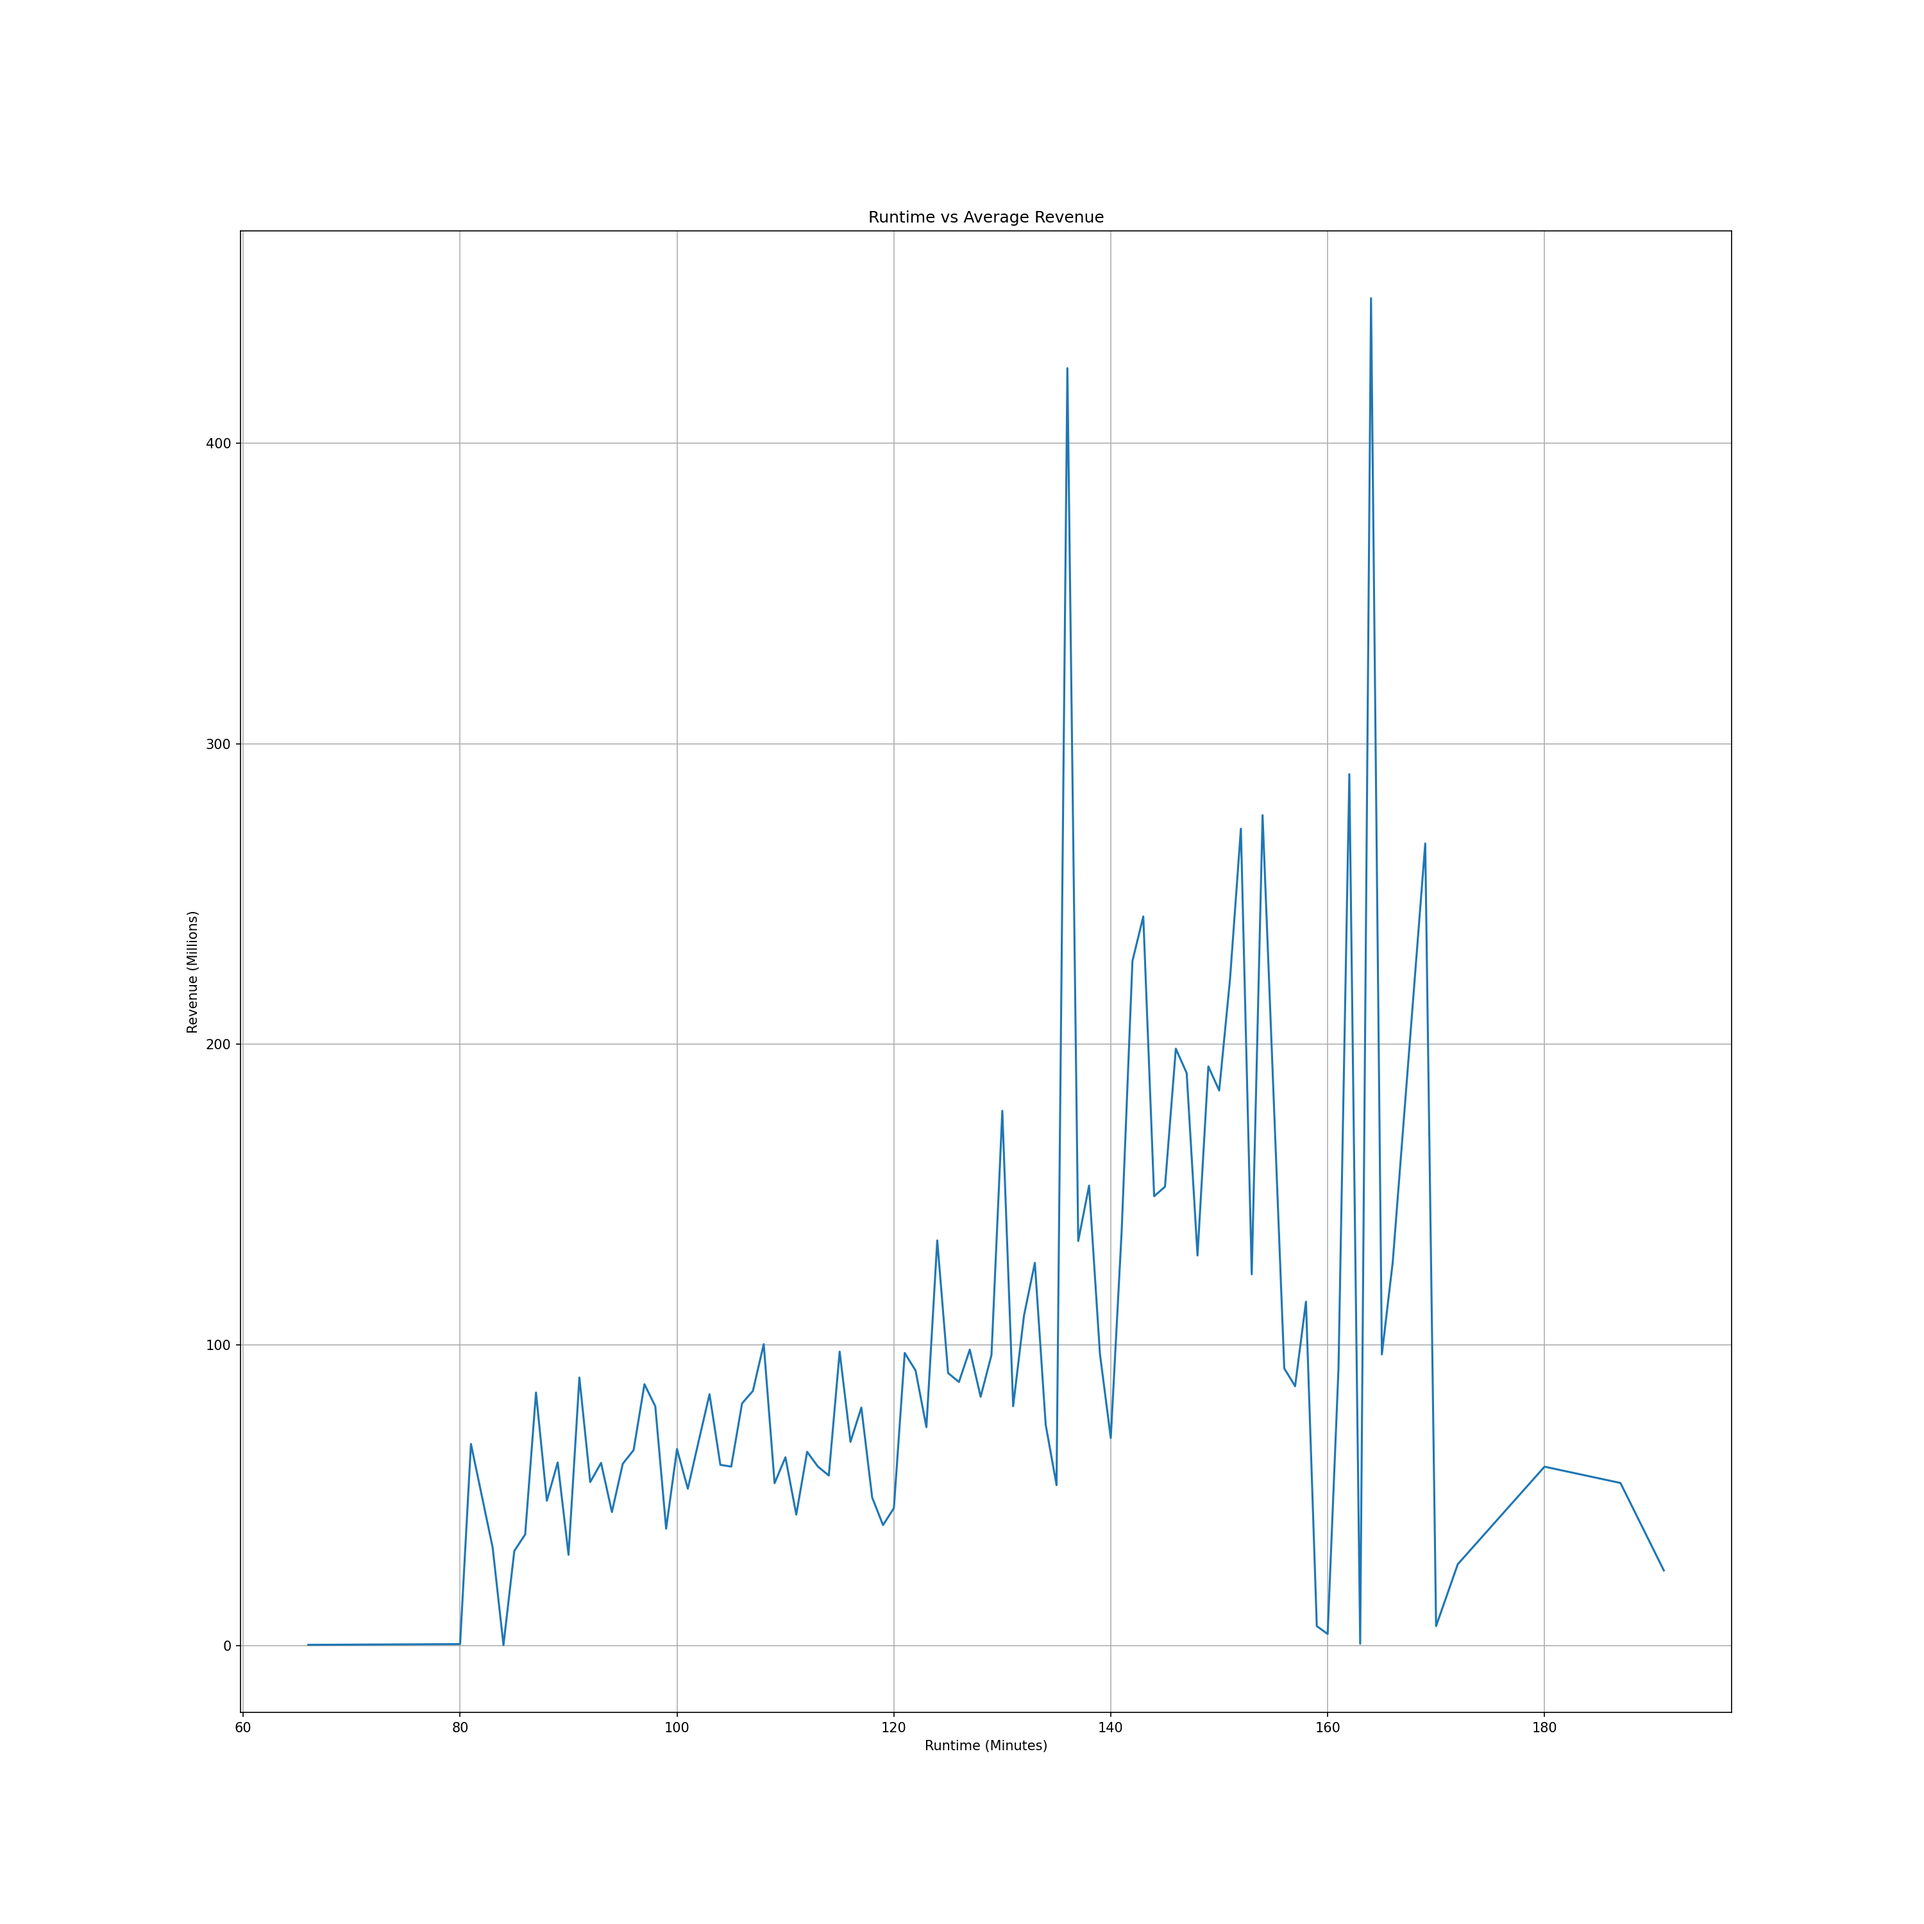
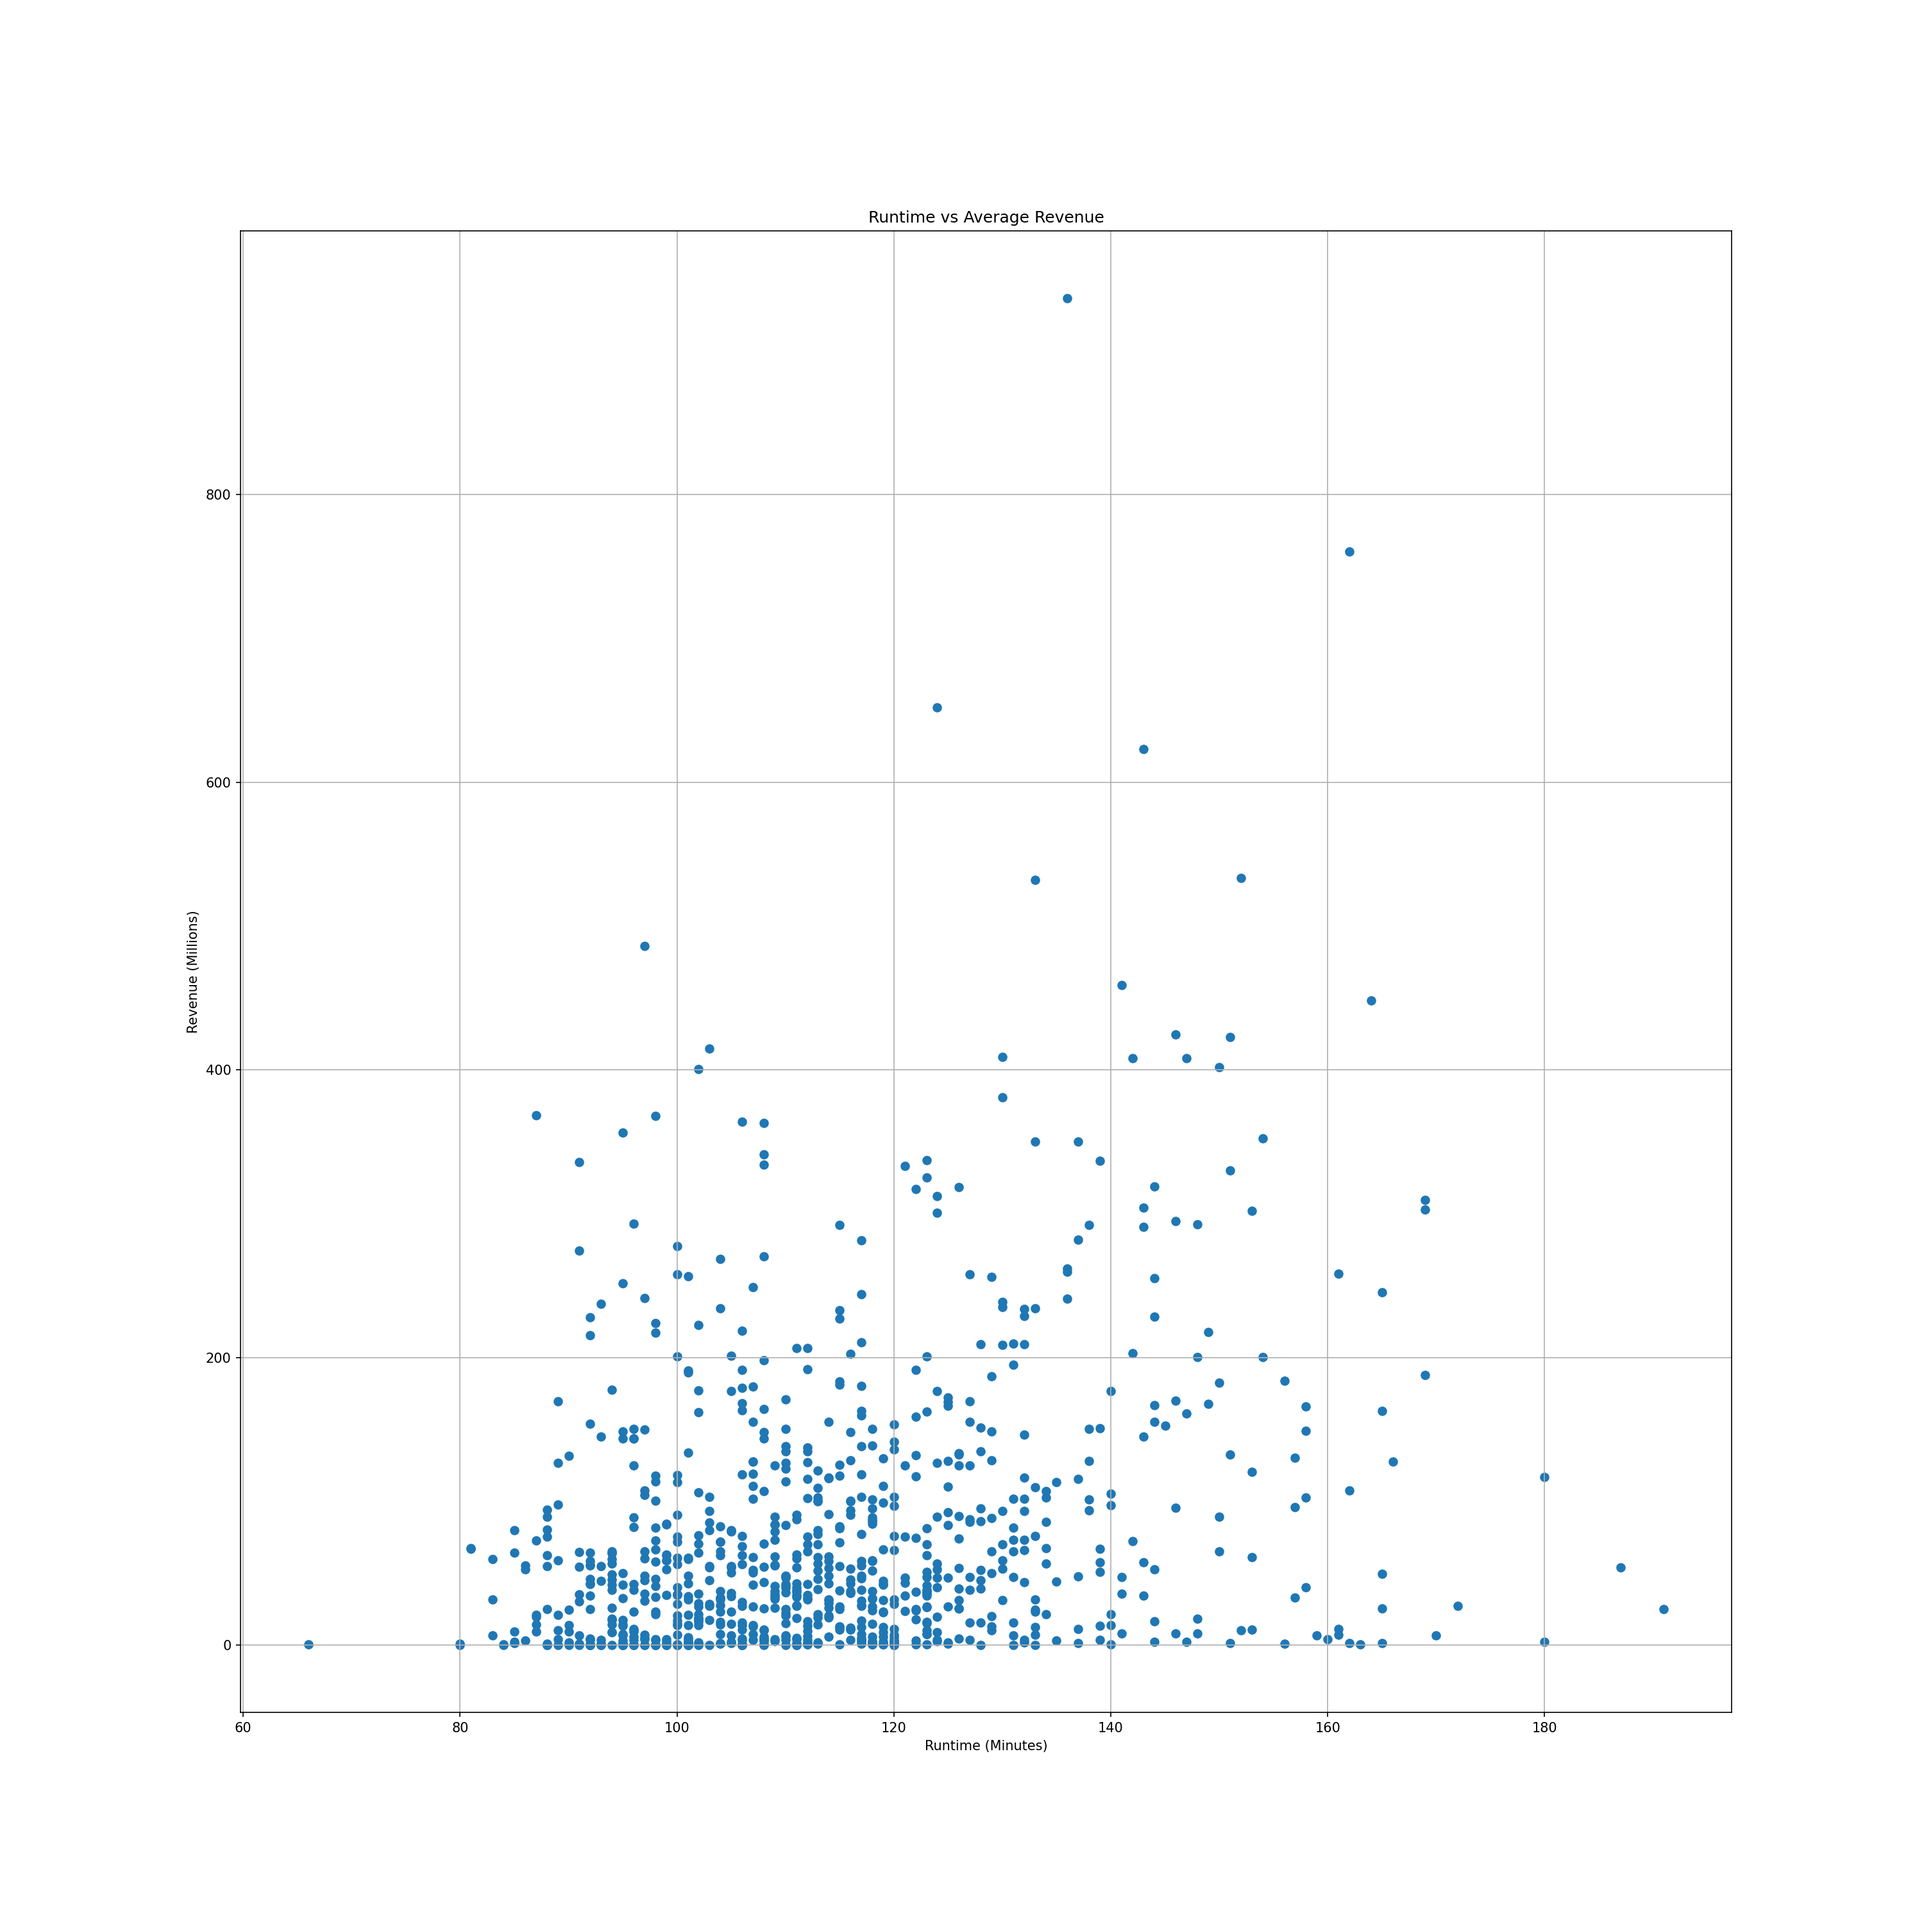
Condensed Everything by creating a new function

diff --git a/DataAnalysis.py b/DataAnalysis.py
@@ -40,7 +40,7 @@ import seaborn as sns
 import math
 
 
-# HELPER FUNCTIONS
+# ! HELPER FUNCTIONS
 
 def sort_and_crop_dict(d: dict, n: int = None) -> dict:
     """
@@ -57,7 +57,54 @@ def sort_and_crop_dict(d: dict, n: int = None) -> dict:
     return sorted_dict
 
 
-# Main Code
+def create_average_revenue_dict(colname: str, n: int = None) -> dict:
+    # Generate set of distinct genres from dataframe
+    if (type(list(data[colname])[0]) == type("")):
+        all = set(sum([allcol.split(",") for allcol in list(data[colname])], []))
+    else:
+        all = set([allcol for allcol in list(data[colname])])
+
+    # Generate a dictionary of empty revenues for each genre
+    cRevenues = {}
+    for c in all:
+        cRevenues[c] = []
+
+
+    for index in data.index:
+        # Getting revenue for each movie
+        itemRevenue = data["Revenue (Millions)"][index]
+        if math.isnan(itemRevenue): # Skip nan values
+            continue
+
+        # Find each genre for the film
+        if (type(list(data[colname])[0]) == type("")):
+            itemCol = data[colname][index].split(",")
+        else:
+            itemCol = [data[colname][index]]
+        # Adds the film's revenue to each genre
+        for col in itemCol:
+            cRevenues[col].append(itemRevenue)
+
+    # Delete List for nan values
+    delList = []
+
+    # Calculate the average revenue for each genre
+    for item in cRevenues:
+        if (len(cRevenues[item]) == 0):
+            delList.append(item)
+            continue
+        cRevenues[item] = sum(cRevenues[item]) / len(cRevenues[item])
+
+    for i in delList:
+        del cRevenues[i]
+
+    # Sort the revenues from highest to lowest
+    return sort_and_crop_dict(cRevenues, n)
+
+
+
+# ! Main Code
+
 
 matplotlib.rcParams["figure.dpi"] = 150
 
@@ -68,33 +115,7 @@ data = pd.read_csv("IMDB-Movie-Data.csv")
 
 # ? Genre vs Average Revenue
 
-# Generate set of distinct genres from dataframe
-allGenres = set(sum([genList.split(",") for genList in list(data.Genre)], []))
-
-# Generate a dictionary of empty revenues for each genre
-genreRevenues = {}
-for genre in allGenres:
-    genreRevenues[genre] = []
-
-
-for index in data.index:
-    # Getting revenue for each movie
-    itemRevenue = data["Revenue (Millions)"][index]
-    if math.isnan(itemRevenue): # Skip nan values
-        continue
-
-    # Find each genre for the film
-    itemGenres = data.Genre[index].split(",")
-    # Adds the film's revenue to each genre
-    for genre in itemGenres:
-        genreRevenues[genre].append(itemRevenue)
-
-# Calculate the average revenue for each genre
-for item in genreRevenues:
-    genreRevenues[item] = sum(genreRevenues[item]) / len(genreRevenues[item])
-
-# Sort the revenues from highest to lowest
-genreRevenues = sort_and_crop_dict(genreRevenues)
+genreRevenues = create_average_revenue_dict("Genre")
 
 fig1, ax1 = plt.subplots(figsize=(20, 20))
 ax1.grid()
@@ -109,42 +130,8 @@ plt.savefig("Figures/Genre vs Average Revenue.png")
 
 # ? Directors vs Average Revenue
 
-# Generate set of distinct directors from dataframe
-allDirectors = set(sum([dirList.split(",") for dirList in list(data.Director)], []))
-
-# Generate a dictionary of empty revenues for each director
-dirRevenues = {}
-for dir in allDirectors:
-    dirRevenues[dir] = []
-
-
-for index in data.index:
-    # Getting revenue for each movie
-    itemRevenue = data["Revenue (Millions)"][index]
-    if math.isnan(itemRevenue): # Skip nan values
-        continue
-
-    # Finds the director for the film and 
-    # adds the revenue of that film to the dictionary
-    dir = data.Director[index]
-    dirRevenues[dir].append(itemRevenue)
-
-
-delList = []
-
-# Average the revenue for each film
-for item in dirRevenues:
-    if (len(dirRevenues[item]) == 0):
-        delList.append(item)
-        continue
-    dirRevenues[item] = sum(dirRevenues[item]) / len(dirRevenues[item])
-
-# Remove directors with no data
-for item in delList:
-    del dirRevenues[item]
-
-# Get Directors with the top 100 average revenues
-dirRevenues = sort_and_crop_dict(dirRevenues, 100)
+# Get directors with the top 100 average revenues
+dirRevenues = create_average_revenue_dict("Director", 100)
 
 fig1, ax1 = plt.subplots(figsize=(20, 20))
 ax1.grid()
@@ -159,41 +146,8 @@ plt.savefig("Figures/Directors vs Average Revenue.png")
 
 # ? Actors vs Average Revenue
 
-# Generate set of distinct actors from dataframe
-allActors = set(sum([actList.split(",") for actList in list(data.Actors)], []))
-
-# Generate a dictionary of empty revenues for each actor
-actRevenues = {}
-for act in allActors:
-    actRevenues[act] = []
-
-
-for index in data.index:
-    # Getting revenue for each movie
-    itemRevenue = data["Revenue (Millions)"][index]
-    if math.isnan(itemRevenue): # Skip nan values
-        continue
-
-    itemActors = data.Actors[index].split(",")
-    for act in itemActors:
-        actRevenues[act].append(itemRevenue)
-
-delList = []
-
-# Average the revenue for each film
-for item in actRevenues:
-    if (len(actRevenues[item]) == 0):
-        delList.append(item)
-        continue
-    actRevenues[item] = sum(actRevenues[item]) / len(actRevenues[item])
-
-# Remove actors with no data
-for item in delList:
-    del actRevenues[item]
-
-
 # Get Actors with the top 100 average revenues
-actRevenues = sort_and_crop_dict(actRevenues, 100)
+actRevenues = create_average_revenue_dict("Actors", 100)
 
 fig1, ax1 = plt.subplots(figsize=(20, 20))
 ax1.grid()
@@ -208,6 +162,7 @@ plt.savefig("Figures/Actors vs Average Revenue.png")
 
 
 # ? Year vs Average Revenue
+
 yearRange = range(min(data.Year), max(data.Year) + 1)
 
 # Create a dictionary with empty revenues for each year
@@ -274,46 +229,14 @@ ax1.grid()
 ax1.set_title("Runtime vs Average Revenue")
 ax1.set_xlabel("Runtime (Minutes)")
 ax1.set_ylabel("Revenue (Millions)")
-ax1.plot(list(runtimeRevenues.keys()), list(runtimeRevenues.values()))
+ax1.scatter(data["Runtime (Minutes)"], data["Revenue (Millions)"])
 plt.savefig("Figures/Runtime vs Average Revenue.png")
 
 
 
 # ? Rating vs Average Revenue
 
-# Generate set of the distinct ratings from dataframe
-allRatings = set(data.Rating)
-
-# Generate a dictionary of empty revenues for each rating
-rateRevenues = {}
-for rate in allRatings:
-    rateRevenues[rate] = []
-
-for index in data.index:
-    # Getting revenue for each movie
-    itemRevenue = data["Revenue (Millions)"][index]
-    if math.isnan(itemRevenue): # Skip nan values
-        continue
-
-    rate = data.Rating[index]
-    rateRevenues[rate].append(itemRevenue)
-
-delList = []
-
-# Average the revenue for each film
-for item in rateRevenues:
-    if (len(rateRevenues[item]) == 0):
-        delList.append(item)
-        continue
-    rateRevenues[item] = sum(rateRevenues[item]) / len(rateRevenues[item])
-
-# Remove ratings with no data
-for item in delList:
-    del rateRevenues[item]
-
-
-# sort ratings
-rateRevenues = sort_and_crop_dict(rateRevenues)
+rateRevenues = create_average_revenue_dict("Rating")
 
 fig1, ax1 = plt.subplots(figsize=(20, 20))
 ax1.grid()
